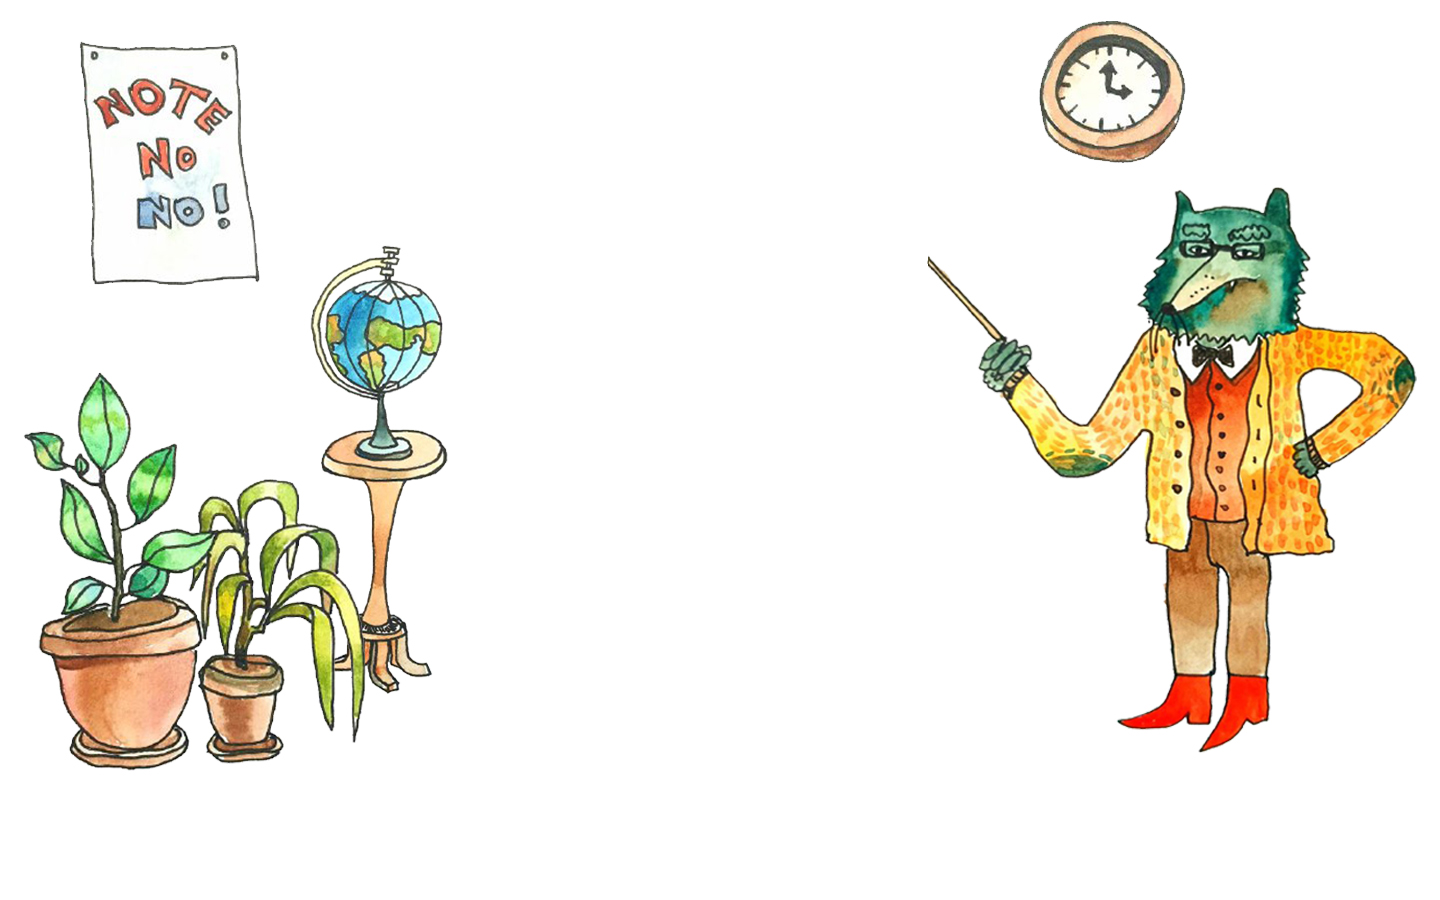
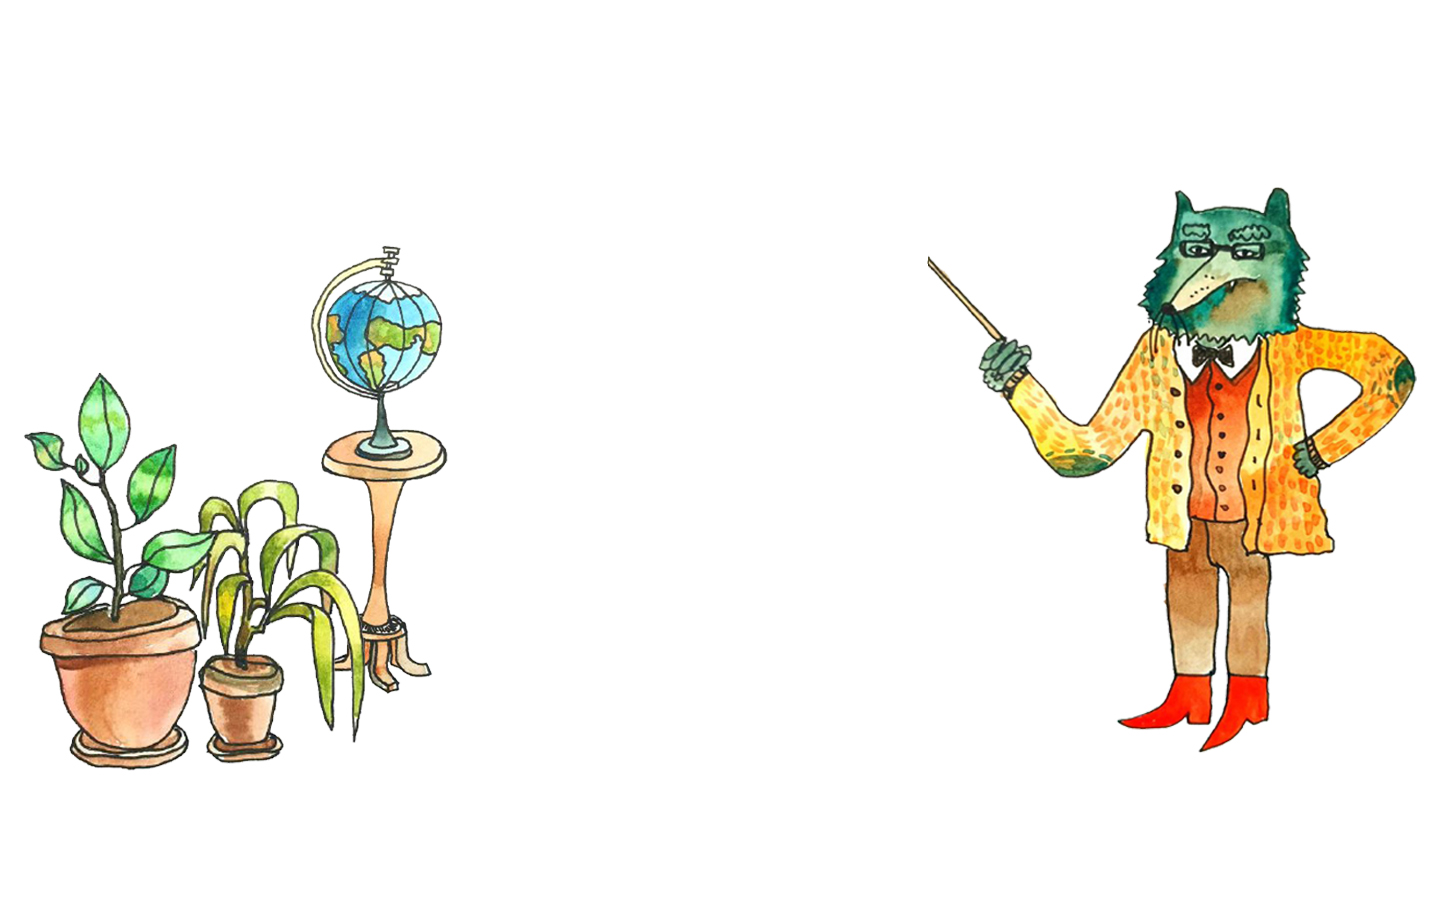
addded poster animation

Changed region(s): [[0.7188, 0.0, 0.8438, 0.1867], [0.0625, 0.0311, 0.1875, 0.28], [0.1562, 0.28, 0.1875, 0.3111]]

diff --git a/public/css/main.css b/public/css/main.css
@@ -8,6 +8,24 @@ body {
   /*position: relative;*/
 }
 
+#poster {
+  position: absolute;
+  top: 7%;
+  left: 5%;
+  width: 190px;
+  height: 300px;
+  background-image: url("../resources/poster.png");
+  background-repeat: no-repeat;
+  background-position: center;
+  background-size: auto;
+  animation: mymove 5s;
+}
+
+@keyframes mymove {
+  from {top: 0px;}
+  to {top: 80px;}
+}
+
 #chalkboard {
   position: absolute;
   top: 0%;
@@ -25,7 +43,7 @@ body {
     position: absolute;
     /* margin: auto; */
     /* padding-top: 40px; */
-    top: -2.5%;
+    top: -2.3%;
     left: 30%;
     font-size: 2.4em;
     text-align: center;

diff --git a/index.html b/index.html
@@ -14,6 +14,8 @@
   <title>NoNoNote</title>
 </head>
 <body>
+<div id='poster'>
+</div>
   <div id='chalkboard'>
     <h1 id='page_title'>NoNoNote</h1>
     <div id="create_note">
